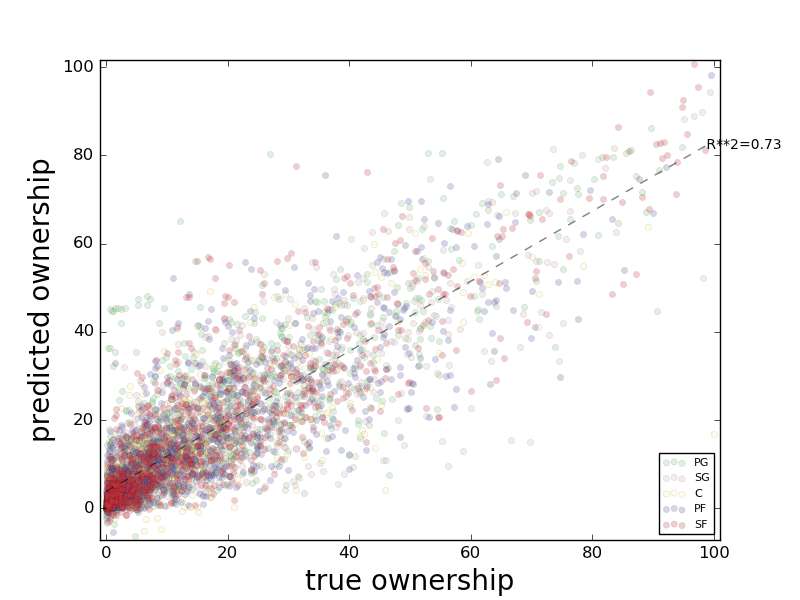
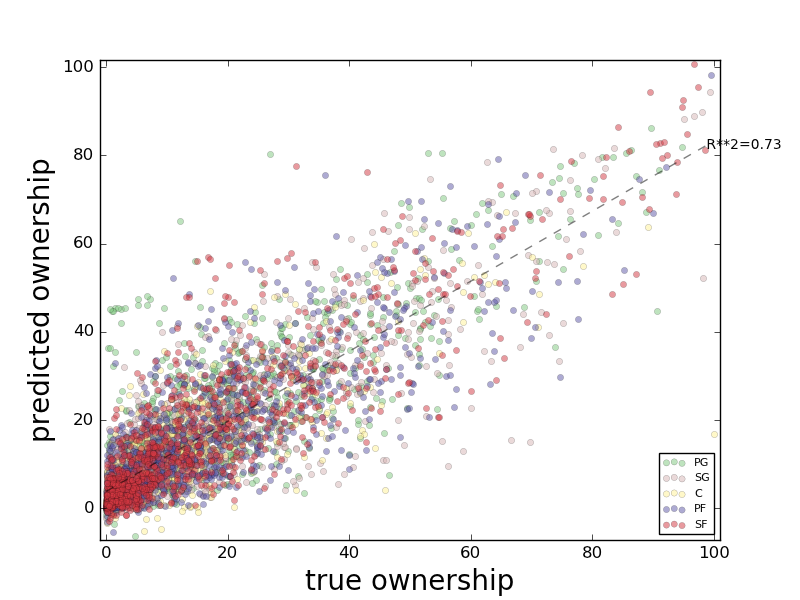
fig edits

diff --git a/ANALYSIS/SLATES/slates.py b/ANALYSIS/SLATES/slates.py
@@ -72,7 +72,7 @@ def plot_model(df=None,model=None,ttype=None):
 	for i,X in enumerate(posl): 
 		plt.scatter(df.loc[df.position==X].true.values.tolist(),
 				df.loc[df.position==X][model].values.tolist(),
-				color=cmap(i / float(len(posl))    ),label=posl[i] ,alpha=0.25,edgecolor='black',lw=0.2)
+				color=cmap(i / float(len(posl))    ),label=posl[i] ,alpha=0.5,edgecolor='black',lw=0.2)
 	plt.legend(  prop={'size':8},loc='lower right' )
 	mod_dict = {'RandomForestRegressor':'rfr','Lasso':'Lasso','Ridge':'ridge','GradientBoostingRegressor':'gbr','mean':'mean'}
 	#plt.title('model='+model,size=20)

diff --git a/README.md b/README.md
@@ -212,7 +212,7 @@ I set out to answer these questions using scraped contest records of field owner
   
   * __player models in hold-out__
   
-  As already mentioned, I held out January 2017 for testing. Predicted versus true ownerships for each player observation are plotted below, with colors corresponding to athlete position, and where perfect predictions would lie on the line ```predicted ownership=true ownership```. 
+  I held out January 2017 for testing. Predicted versus true ownerships for each player observation are plotted below, with colors corresponding to athlete position, and where perfect predictions would lie on the line ```predicted ownership=true ownership```. 
   ![alt text](https://github.com/amadeus-pinto/forecasting-daily-fantasy-gambler-picks-based-on-the-news/blob/master/ANALYSIS/SLATES/FIGS/jan.RandomForestRegressor.gpp.png)
   Compare this with the null model, which guesses the player's mean ownership each observation:
   ![alt text](https://github.com/amadeus-pinto/forecasting-daily-fantasy-gambler-picks-based-on-the-news/blob/master/ANALYSIS/SLATES/FIGS/jan.mean.gpp.png)
